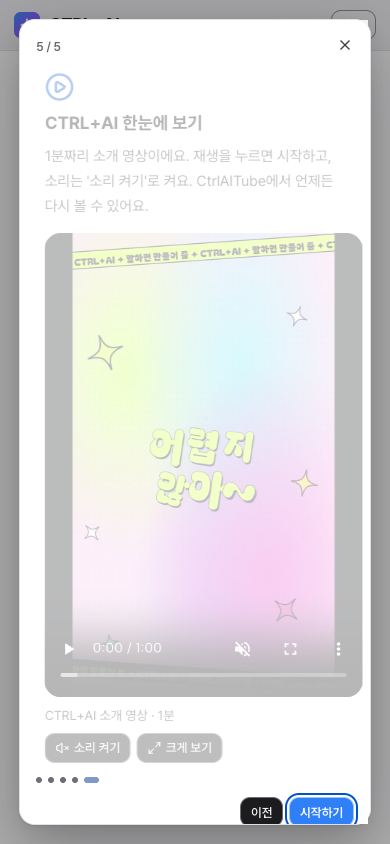
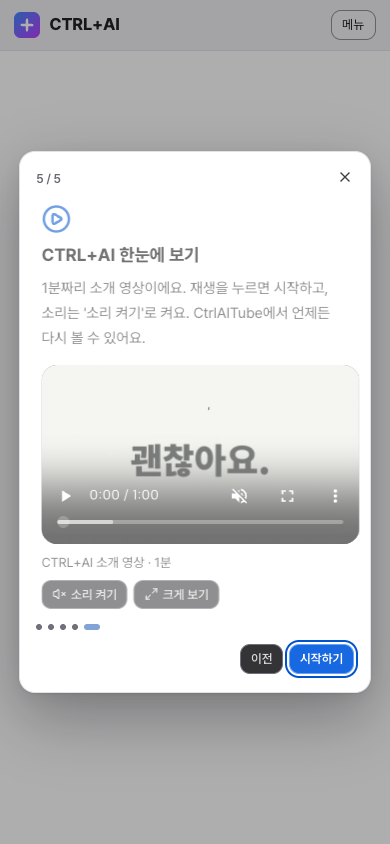
docs: fix-promo-video-placement — product, architecture, status, run log, screenshots

diff --git a/docs/progress/RUN-2026-10-16.md b/docs/progress/RUN-2026-10-16.md
@@ -42,6 +42,7 @@ publish-summary (8) and promo-videos (9), plus owner-polish 15.**
 | PS | publish-summary — the 게시 dialog's 설명·메모 pre-filled by Claude (fast), once per version, free to the member | `feat-publish-summary` | **merged** — backend 1014 (PG on, 0 skipped, exit 0 after the review fixes), frontend 490, tsc/lint/build OK; `/code-review high` 8 findings fixed; **migration `d4e7a1b2c9f0`** (4 nullable columns on `builder_project_versions`, round-tripped on local PG) | `59134b7` | **deployed 2026-10-16 06:01 UTC** by the owner (`update.sh` → main `b494018`, backup `ctrlai-20261016-060121.sql.gz`, migrations `d4e7a1b2c9f0` and `c2d9e4f7a1b6` applied together with feedback-screenshots; images green for `b494018` at 05:39 UTC). Checked from outside: health ok, publish-summary and feedback image routes answer 401 without a session, `/api/tube/*` still 404 (promo-videos not merged) |
 | PV | promo-videos — the club's intro video: guide step 5, CtrlAITube 공식 video with stored reactions/comments, 신고 → Admin › Content | `feat-promo-videos` | **merged + deployed** — backend 1055 (exit 0), frontend 511, tsc/lint/build OK, Playwright `promo-videos.spec.ts` 2 passed; screenshots `screens/promo-videos/`; **migration `e5f8b2c3d7a1`** (4 new tables, round-tripped on local PG) | `85bc78e` (owner approved 2026-10-16; docs `987e09f`) | **deployed 2026-10-16 ~06:20 UTC** by the other session (owner: "너가 돌려봐") — `update.sh` with the `987e09f` images, migration `c2d9e4f7a1b6 → e5f8b2c3d7a1` applied after the backup `ctrlai-20261016-061655.sql.gz`, api/web healthy. Checked from outside by this session: health ok, `GET /api/tube/videos` 401 without a session, `/promo/ctrlai-intro-desktop-v1.mp4` 200 `video/mp4` 5.3 MB and the mobile file 7.5 MB, both `Cache-Control: public, max-age=31536000, immutable`, posters 200, `/ctrlaitube` 200 |
 | FS | feedback-screenshots — 의견 보내기 takes up to 3 screenshots (picker · drop · ⌘V), Admin › Feedback shows them large, 지우기 | `feat-feedback-screenshots` (worktree `../ctrl-ai-feedback`) | **merged** — backend 1044 (PG on, 0 skipped), frontend 505, tsc/lint/build OK; `/code-review high` 9 of 10 fixed (the 10th is the two-heads merge note); Chrome screenshots 1440 + 390, no console errors; **migration `c2d9e4f7a1b6`** (`feedback_images`, on `d4e7a1b2c9f0`; round-tripped on a local PG database of its own) | `12e72a8` | **deployed 2026-10-16 06:01 UTC** by the owner (`update.sh` → `b494018`, backup `ctrlai-20261016-060121.sql.gz`, migration `d4e7a1b2c9f0 → c2d9e4f7a1b6` ran). Checked read-only from this session (asked by another session): `alembic current` = `c2d9e4f7a1b6 (head)`; api and web containers up since 06:01, healthy, running the images built 05:44 UTC by the `12e72a8` run (the `b494018` docs-only run rebuilt from cache to the same images); no error/traceback lines in 60 min of api/web logs; from outside health ok, `POST /api/feedback/images` 401 (was 404), `GET /api/admin/feedback` 401, `/admin/feedback` 200. `.env` unchanged |
+| PVf | fix-promo-video-placement — the 16:9 cut in the guide, the 9:16 cut on CtrlAITube, on every device; sample cards gone | `fix-promo-video-placement` | **built, waiting for the owner** — backend BACKEND_N (exit 0), frontend FRONTEND_N, tsc/lint/build OK, Playwright `promo-videos.spec.ts` 2 passed; screenshots `screens/promo-videos/` refreshed; **no migration** (the official row updates itself on the next read) | — | after approval: plain `update.sh`; nothing in `.env` |
 | P4a | app-platform P4a — ctrlai.json, Builder prompts, 4 templates, 미리보기 label | `feat-app-platform-p4` | **merged** — backend 999 (PG on, 0 skipped), frontend 482, tsc/lint/build OK, Playwright P2 + P3 + **P4 (new) 3 passed**; `/code-review high` 8 of 9 fixed, `/security-review` clean; screenshots `screens/app-platform-p4/`; **no migration** | `d39d251` | **deployed 2026-10-16 03:48 UTC** together with P4b (the 02:34 UTC run had pulled the pre-P4a image: the images build was still running — hence the standing rule: hand over update.sh only once images is green for the commit) |
 
 ## Setup on this computer (2026-10-16)
@@ -590,6 +591,35 @@ database was not migrated) and ports 3300 / 8600 (8300 was taken).
 - Sweep rule after the review: a member who closes the tab with 3
   pictures waiting sees "3장까지" on the next upload for up to a day,
   unless they send any note first (sending clears leftovers).
+
+- **fix-promo-video-placement (built 2026-10-16).** The owner's correction,
+  relayed from another session: promo-videos had put the 16:9 cut on
+  desktops and the 9:16 cut on phones; the owner meant **by place, not by
+  device** — "모바일용 9:16은 videohub(CtrlAITube)에, 데스크탑용은
+  tutorial(안내 창)에 넣으라는거야 기기 상관 없이" — and "지금 예시 영상
+  삭제".
+  - **Guide**: always the 16:9 cut (`PromoVideo` now takes one `clip`;
+    the width hook is gone). **CtrlAITube**: always the 9:16 cut — on a
+    wide stage a vertical player sized by height (70vh → width) on the
+    left with title/meta/description beside it, reactions and comments in
+    the right column; narrow screens stack. The card thumbnail is the
+    vertical poster in a 3:4 slot.
+  - **Sample videos removed**: `MOCK_VIDEOS`, `CommunityVideo`,
+    `findVideo`, `totalReactions`, the mock watch page (`WatchPanel.tsx`
+    and its test) and the "준비 중" badge + "테스트 모드 – 예시" tag on
+    the CtrlAITube page. The feed lists real rows only (one, for now) and
+    has an empty state. `mock-data.ts` keeps everything else.
+  - **Backend**: no schema change — the two hosted columns stay, their
+    comments and the docs now say "desktop = 16:9 (guide), mobile = 9:16
+    (CtrlAITube), by shape not device". The official row's wording
+    changed, so `ensure_official` now **updates the row when OFFICIAL
+    differs** (tested): a new encode or text lands by deploy, no data fix.
+  - Tests: `promo-videos.test.tsx` (7: the clip plays as given at either
+    width, grid holds the official card only + empty state, CtrlAITube
+    view plays the 9:16 cut at a desktop width), guide test asserts the
+    16:9 cut; Playwright: both cuts at 1440 and 390, one card, no
+    test-mode tag, a really vertical player (height > width), reaction and
+    comment stored. Screenshots 1440 · 390, light · dark.
 
 ## Handoff — continuing in iTerm (Claude Code CLI)
 

diff --git a/docs/product.md b/docs/product.md
@@ -46,7 +46,7 @@ principles.
 | Project Builder       | Full-viewport workspace: files │ code │ Claude, preview and build output below    |
 | Video Generator       | Generate / edit / extend through the **mock** Higgsfield provider, charged in KRW to the member's one 동아리 지원 wallet. **Locked for members by default** (owner-polish 6, 2026-10-16): the 관리자 opens it in Admin › System › 기능 열기 the quarter video starts; until then the menu item carries a lock and the whole screen is one centred lock with "다음 단계에서 열려요 — 지금은 준비 중이에요" (owner's shape, 2026-10-16); the 관리자 sees the same screen plus "Admin › System에서 열 수 있어요", and the API never locks the 관리자 out |
 | CtrlAIApps            | Mock listings; detail page is a hero, one primary action and three tabs (소개 / 댓글 / 업데이트 기록) sharing CtrlAITube's comment section |
-| CtrlAITube            | The club's intro video first (공식 — a hosted file, played in the page, real reactions and comments since `promo-videos`); the rest a mock feed; watch page is two columns — player sized by ratio, sticky comment panel; CTRL+AI comments kept separate from YouTube comments |
+| CtrlAITube            | Real rows only: the club's intro video (공식 — the 9:16 cut, played in the page on every device, real reactions and comments since `promo-videos`; no sample cards since `fix-promo-video-placement`); watch page is two columns — a vertical player with the text beside it, sticky comment panel; CTRL+AI comments kept separate from YouTube comments |
 | Usage                 | **Live** — one 동아리 지원 wallet with a 채팅/빌더/영상/기타 breakdown, 대화별 / 날짜별 totals split into 입력 / 캐시 쓰기 / 캐시 읽기 / 출력 / 도구, this quarter's 캐시로 아낀 금액, and the ledger; the 개인 잔액 block is hidden while top-ups are off (personal-topup-off) |
 | Profile               | Live signed-in member, quarter participation, application form and 회원 탈퇴        |
 | Admin                 | **Live** — section hub, member/application/quarter figures, wallets and spend by provider, audit log |
@@ -835,11 +835,14 @@ never mixed). The same `deleted_at` listing rule as CtrlAIApps.
 **First real rows — `promo-videos` (2026-10-16).** One video row has a
 *kind*: **hosted** (a file CTRL+AI serves itself) or **youtube**. The only
 hosted video is the club's own 1-minute intro, **"CTRL+AI 한눈에 보기"**:
-first in the grid with a **공식** badge, two files (a 16:9 one at desktop
-widths, a 9:16 one at phone widths — the 60rem sidebar breakpoint
-decides), played in the page with the browser's controls, never
-autoplaying, muted until the member presses **소리 켜기**, with **크게
-보기** for fullscreen. Its reactions (좋아요 · 유용해요 · 흥미로워요, a
+the only card in the grid for now, with a **공식** badge. Two cuts, placed
+by **shape, not device** (owner, 2026-10-16, `fix-promo-video-placement`):
+the **9:16 cut plays on CtrlAITube** — on a wide screen a vertical player
+sized by height with the title and description beside it, the reactions
+and comments in the right column; on a phone stacked — and the **16:9 cut
+plays in the first-visit guide**. Both in the page with the browser's
+controls, never autoplaying, muted until the member presses **소리
+켜기**, with **크게 보기** for fullscreen. Its reactions (좋아요 · 유용해요 · 흥미로워요, a
 toggle per member) and comments (one level of replies) are stored:
 reading needs a signed-in account, reacting and commenting a member taking
 part this quarter; a comment is its author's to edit or delete (anyone
@@ -847,9 +850,10 @@ else's is a 404); a member may 신고 a comment; Admin › Content lists those
 reports and the admin hides (for everyone, with a reason) or deletes
 (replies included) the comment — both audited — or closes the report and
 keeps it. Per-comment 공감 is not stored yet, so the official video shows
-no 공감 button and no 인기순. The same video is the last step of the
-first-visit guide. The other cards remain sample data until the YouTube
-feed lands.
+no 공감 button and no 인기순. The 16:9 cut is the last step of the
+first-visit guide. **The sample cards are gone** (owner, 2026-10-16):
+the feed lists real rows only, and the "테스트 모드 – 예시" tag left the
+screen with them.
 
 ### Admin, eventually
 

diff --git a/CLAUDE.md b/CLAUDE.md
@@ -452,8 +452,9 @@ Standing facts that do not change when the queue is reordered:
   append-only audit log work end to end on a real database. No mock data
   remains in the money path.
 - Still mock: the Claude replies (`CLAUDE_PROVIDER=mock`), video assets
-  (placeholder clips), Google sign-in in development, and the CtrlAIApps
-  / CtrlAITube listings (Phases 5 and 8).
+  (placeholder clips) and Google sign-in in development. The CtrlAIApps
+  and CtrlAITube listings are real rows (CtrlAITube holds only the club's
+  own video until the YouTube feed, Phase 8).
 - The invite-only beta's code is deployed to `ctrlai-server` on mock
   providers ([`docs/deployment.md`](docs/deployment.md)); done items and
   dates are in [`docs/archive/done.md`](docs/archive/done.md).

diff --git a/docs/architecture.md b/docs/architecture.md
@@ -340,7 +340,10 @@ this way.
 ### CtrlAITube rows (`promo-videos`)
 
 `tube_videos` (slug, `kind` hosted | youtube, title, description,
-`official`, nullable creator, the hosted/poster paths per orientation,
+`official`, nullable creator, the hosted/poster paths per cut — the
+columns are named `desktop` (16:9, played in the first-visit guide) and
+`mobile` (9:16, played on CtrlAITube) for their shape, not the viewer's
+device (`fix-promo-video-placement`),
 `youtube_video_id`, duration, `published_at`, `deleted_at`),
 `tube_reactions` (video, user, kind — unique, a toggle), `tube_comments`
 (video, author, one-level `parent_id`, body, the author's `deleted_at`,
